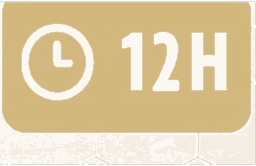
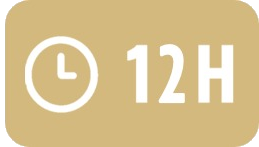
feat: portfolio demo site, real photo assets, promo badge, map links
- Add fake/index.html — a real duplicate of the invite sharing the same
  assets/fonts, with a made-up American guest list (scripts/fake_guests.json)
  for the portfolio. Two guests named "Nuno" to match the search placeholder.
  CLAUDE.md documents the two-site setup and the regeneration process.
- Replace several auto-cropped icons (ring, hourglass, bishop, chest, tent,
  unocard, herald, referee, car, guest/age/time badges) with cleaner
  higher-res versions from the original source art; add a full-color gold
  poker chip for the "ficha" card centerpiece.
- Replace the "M&S — O Jogo" and "Miguel & Sofia · Aliança Estratégica"
  text titles with the client's own branded banner graphics (auto-sizing),
  and swap the hand-built SVG route map for the original hexagon map artwork.
- Add a floating Grasshopper Solutions promo badge (top-right, both sites)
  linking to grasshoppersolutions.online.
- Fix the church/venue names on the board card to link to Google Maps,
  matching the existing links on the Elementos card.
- Correct the wedding date back to 12 June 2027 (Saturday) — an earlier
  "fix" had it wrong; the couple photo's baked-in date was right all along.

diff --git a/fake/index.html b/fake/index.html
@@ -13,21 +13,21 @@
 <link rel="preconnect" href="https://fonts.gstatic.com" crossorigin>
 <!-- Fonts identified from the original invitation assets:
      · game / UI text  -> IBM Plex Mono   (swap in ../ if the real one turns out to be Fira Mono / Ubuntu Mono)
-     · standard font    -> IM Fell English (self-hosted, fonts/IM_Fell_English/)
+     · standard font    -> IM Fell English (self-hosted, ../fonts/IM_Fell_English/)
      · arcade bits      -> Press Start 2P (self-hosted) / Cinzel wordmark
-     · card suits/naipe -> Play (self-hosted, fonts/Play/) -->
+     · card suits/naipe -> Play (self-hosted, ../fonts/Play/) -->
 <link href="https://fonts.googleapis.com/css2?family=Cinzel:wght@700;900&family=IBM+Plex+Mono:wght@400;500;600;700&display=swap" rel="stylesheet">
 <style>
   @font-face{font-family:'IM Fell English';font-style:normal;font-weight:400;font-display:swap;
-    src:url('fonts/IM_Fell_English/IMFellEnglish-Regular.ttf') format('truetype')}
+    src:url('../fonts/IM_Fell_English/IMFellEnglish-Regular.ttf') format('truetype')}
   @font-face{font-family:'IM Fell English';font-style:italic;font-weight:400;font-display:swap;
-    src:url('fonts/IM_Fell_English/IMFellEnglish-Italic.ttf') format('truetype')}
+    src:url('../fonts/IM_Fell_English/IMFellEnglish-Italic.ttf') format('truetype')}
   @font-face{font-family:'Press Start 2P';font-style:normal;font-weight:400;font-display:swap;
-    src:url('fonts/Press_Start_2P/PressStart2P-Regular.ttf') format('truetype')}
+    src:url('../fonts/Press_Start_2P/PressStart2P-Regular.ttf') format('truetype')}
   @font-face{font-family:'Play';font-style:normal;font-weight:400;font-display:swap;
-    src:url('fonts/Play/Play-Regular.ttf') format('truetype')}
+    src:url('../fonts/Play/Play-Regular.ttf') format('truetype')}
   @font-face{font-family:'Play';font-style:normal;font-weight:700;font-display:swap;
-    src:url('fonts/Play/Play-Bold.ttf') format('truetype')}
+    src:url('../fonts/Play/Play-Bold.ttf') format('truetype')}
   :root{
     --kraft:#c69a6b; --kraft-2:#bb8b58; --kraft-edge:#9c7040;
     --paper:#f3ead2; --paper-2:#e9dcbb; --card:#f6efdc;
@@ -45,7 +45,7 @@
   html,body{margin:0;padding:0;height:100%}
   body{
     font-family:var(--serif);color:var(--ink);
-    background:#d8c9a6 url("./assets/hexbg.jpg") center/cover fixed no-repeat;
+    background:#d8c9a6 url("../assets/hexbg.jpg") center/cover fixed no-repeat;
     overflow:hidden;
   }
 
@@ -115,7 +115,7 @@
 
   /* content card */
   .card{position:absolute;left:50%;top:50%;width:88%;aspect-ratio:63/97;transform:translate(-50%,140%) scale(.9);
-    background:var(--card) url("./assets/hexbg.jpg") center/200% no-repeat;background-blend-mode:overlay;
+    background:var(--card) url("../assets/hexbg.jpg") center/200% no-repeat;background-blend-mode:overlay;
     border-radius:14px;border:7px solid var(--gold-lt);box-shadow:var(--shadow),inset 0 0 0 2px var(--gold);
     z-index:8;opacity:0;transition:transform 1.5s cubic-bezier(.4,1.1,.4,1),opacity 1.5s;display:flex;flex-direction:column;overflow:hidden}
   .card.show{transform:translate(-50%,-52%) scale(1);opacity:1}
@@ -294,7 +294,7 @@
 
 <div class="promo" id="promo">
   <button class="promo-circle" id="promoCircle" aria-label="Grasshopper Solutions" aria-expanded="false">
-    <img src="./assets/grasshopper-logo.svg" alt="">
+    <img src="../assets/grasshopper-logo.svg" alt="">
   </button>
   <div class="promo-pop" id="promoPop">
     Get your own website from <b>Grasshopper Solutions</b>
@@ -309,7 +309,7 @@
       <div class="ribbon"></div>
       <div class="flap"></div>
       <div class="pocket"></div>
-      <div class="seal" id="seal"><img src="./assets/seal.jpg" alt="Selo M&amp;S"></div>
+      <div class="seal" id="seal"><img src="../assets/seal.jpg" alt="Selo M&amp;S"></div>
     </div>
     <div class="carrier" id="carrier"><div class="pcard back"><span>M&amp;S</span></div></div>
     <div class="card" id="card">
@@ -332,12 +332,12 @@
   </div>
 </div>
 
-<script id="guests" type="application/json">[{"rank":"K","suit":"♥","joker":false,"nocard":false,"names":["Miguel Comba"],"aliases":[],"q":["comba","miguel"]},{"rank":"Q","suit":"♠","joker":false,"nocard":false,"names":["Sofia Moreira"],"aliases":[],"q":["moreira","sofia"]},{"rank":"A","suit":"♠","joker":false,"nocard":false,"names":["Cristina Moreira","Luis Moreira"],"aliases":[],"q":["cristina","luis","moreira"]},{"rank":"A","suit":"♣","joker":false,"nocard":false,"names":["Julia Fernandes"],"aliases":["Tia Juju"],"q":["fernandes","juju","julia"]},{"rank":"A","suit":"♦","joker":false,"nocard":false,"names":["Aurelia Parreira"],"aliases":["Tia Lela"],"q":["aurelia","lela","parreira"]},{"rank":"A","suit":"♥","joker":false,"nocard":false,"names":["Ana Cristina Comba"],"aliases":[],"q":["ana","comba","cristina"]},{"rank":"K","suit":"♦","joker":false,"nocard":false,"names":["Nelson dos Santos","Arlete"],"aliases":["Tio Nelson"],"q":["arlete","dos","nelson","santos"]},{"rank":"K","suit":"♠","joker":false,"nocard":false,"names":["Manuel Moreira","Maria Moreira"],"aliases":[],"q":["manuel","maria","moreira"]},{"rank":"J","suit":"♥","joker":false,"nocard":false,"names":["Diogo Comba"],"aliases":[],"q":["comba","diogo"]},{"rank":"J","suit":"♦","joker":false,"nocard":false,"names":["José João Dantas"],"aliases":[],"q":["dantas","joao","jose"]},{"rank":"J","suit":"♣","joker":false,"nocard":false,"names":["Daniel Malato","Márcia Gonçalves"],"aliases":[],"q":["daniel","goncalves","malato","marcia"]},{"rank":"J","suit":"♠","joker":false,"nocard":false,"names":["Nuno Moreira","Moni"],"aliases":[],"q":["moni","moreira","nuno"]},{"rank":"Q","suit":"♦","joker":false,"nocard":false,"names":["Ana Afonso","Cristina Antunes"],"aliases":[],"q":["afonso","ana","antunes","cristina"]},{"rank":"Q","suit":"♥","joker":false,"nocard":false,"names":["Daniela Rodrigues","Ben"],"aliases":[],"q":["ben","dani","daniela","rodrigues"]},{"rank":"Q","suit":"♣","joker":false,"nocard":false,"names":["Margarida Patriarca","Flavio Pereira","Isabel Patriarca","Artur Patriarca"],"aliases":[],"q":["artur","flavio","guida","isabel","margarida","patriarca","pereira"]},{"rank":"JOKER","suit":null,"joker":true,"nocard":false,"names":["João Ventura","Bela Ventura","Gonçalinho Ventura"],"aliases":[],"q":["bela","goncalinho","joao","ventura"]},{"rank":"10","suit":"♥","joker":false,"nocard":false,"names":["Tia Maria","Tio Alfredo"],"aliases":[],"q":["alfredo","maria"]},{"rank":"9","suit":"♥","joker":false,"nocard":false,"names":["Tio Toto Fernando"],"aliases":[],"q":["fernando","toto"]},{"rank":"8","suit":"♥","joker":false,"nocard":false,"names":["Fernando Ventura","Bernardo Ventura","Bernardo"],"aliases":[],"q":["bernardo","fernando","ventura"]},{"rank":"7","suit":"♥","joker":false,"nocard":false,"names":["Ricardo Ventura","Acompanhante"],"aliases":[],"q":["ricardo","ventura"]},{"rank":"6","suit":"♥","joker":false,"nocard":false,"names":["Sergio Ventura","Rita"],"aliases":[],"q":["rita","sergio","ventura"]},{"rank":"5","suit":"♥","joker":false,"nocard":false,"names":["Pedro","Paula","Beatriz"],"aliases":[],"q":["beatriz","dauther","paula","pedro","toto"]},{"rank":"4","suit":"♥","joker":false,"nocard":false,"names":["Fernando Castro","Fabio Castro","Acompanhante","Eugenia Botelho"],"aliases":[],"q":["botelho","castro","eugenia","fabio","fernando","mother"]},{"rank":"3","suit":"♥","joker":false,"nocard":false,"names":["Constança","Acompanhante"],"aliases":[],"q":["constanca"]},{"rank":"10","suit":"♦","joker":false,"nocard":false,"names":["Sofia Faustino","Beatriz"],"aliases":[],"q":["beatriz","faustino","sofia"]},{"rank":"9","suit":"♦","joker":false,"nocard":false,"names":["Rodrigo Mendes","Vera"],"aliases":[],"q":["mendes","rodrigo","vera"]},{"rank":"8","suit":"♦","joker":false,"nocard":false,"names":["João Cunha","Claudia","Santiago"],"aliases":[],"q":["claudia","cunha","joao","santiago"]},{"rank":"7","suit":"♦","joker":false,"nocard":false,"names":["Ricardo Reis","Manuela"],"aliases":[],"q":["manuela","reis","ricardo"]},{"rank":"6","suit":"♦","joker":false,"nocard":false,"names":["Priscila Mendes","Priscila"],"aliases":[],"q":["mendes","priscila"]},{"rank":"5","suit":"♦","joker":false,"nocard":false,"names":["Nuno Tavares","Ana"],"aliases":[],"q":["ana","nuno","tavares"]},{"rank":"4","suit":"♦","joker":false,"nocard":false,"names":["Rita Teixeira"],"aliases":[],"q":["rita","teixeira"]},{"rank":"3","suit":"♦","joker":false,"nocard":false,"names":["Pedro Baptista"],"aliases":[],"q":["baptista","pedro"]},{"rank":"2","suit":"♦","joker":false,"nocard":false,"names":["Paulo Brioso","Acompanhante"],"aliases":[],"q":["brioso","paulo"]},{"rank":"JOKER","suit":null,"joker":true,"nocard":true,"names":["Mitchell"],"aliases":[],"q":["mitchell"]},{"rank":"JOKER","suit":null,"joker":true,"nocard":false,"names":["Manuela","Lara","Dona Helena"],"aliases":[],"q":["dona","helena","lara","manuela"]},{"rank":"10","suit":"♠","joker":false,"nocard":false,"names":["Helena Quaresma","João Quaresma"],"aliases":["Tia Lena"],"q":["helena","husband","joao","lena","quaresma"]},{"rank":"9","suit":"♠","joker":false,"nocard":false,"names":["Primo Zézito","Acompanhante"],"aliases":[],"q":["primo","zezito"]},{"rank":"8","suit":"♠","joker":false,"nocard":false,"names":["Fernanda Correia"],"aliases":[],"q":["correia","fernanda"]},{"rank":"7","suit":"♠","joker":false,"nocard":false,"names":["Marta Quaresma","Gonçalo Matos"],"aliases":[],"q":["goncalo","husband","marta","matos","quaresma"]},{"rank":"6","suit":"♠","joker":false,"nocard":false,"names":["Graça Gonçalves","Zé Ricardo Gonçalves"],"aliases":["Tia Graça","Tio Zé"],"q":["goncalves","graca","ricardo","ze"]},{"rank":"4","suit":"♠","joker":false,"nocard":false,"names":["Vitor Ramos"],"aliases":[],"q":["ramos","vitor"]},{"rank":"3","suit":"♠","joker":false,"nocard":false,"names":["Angela Nobre"],"aliases":[],"q":["angela","nobre"]},{"rank":"10","suit":"♣","joker":false,"nocard":false,"names":["Emidio Martins"],"aliases":[],"q":["emidio","martins"]},{"rank":"9","suit":"♣","joker":false,"nocard":false,"names":["Ana","Paulinho"],"aliases":[],"q":["ana","paulinho"]},{"rank":"7","suit":"♣","joker":false,"nocard":false,"names":["Célia","Orlando"],"aliases":[],"q":["celia","husband","orlando"]},{"rank":"6","suit":"♣","joker":false,"nocard":false,"names":["Paula","Paulo","Catarina"],"aliases":[],"q":["catarina","dauther","husband","paula","paulo"]},{"rank":"3","suit":"♣","joker":false,"nocard":false,"names":["Philip Kirby","Margarida Guerra"],"aliases":[],"q":["guerra","kirby","margarida","philip"]},{"rank":"JOKER","suit":null,"joker":true,"nocard":true,"names":["Catarina"],"aliases":[],"q":["catarina"]},{"rank":"JOKER","suit":null,"joker":true,"nocard":true,"names":["Ana Sousa"],"aliases":[],"q":["ana","sousa"]},{"rank":"JOKER","suit":null,"joker":true,"nocard":true,"names":["Amilcar Alves","Amelia Melo"],"aliases":[],"q":["alves","amelia","amilcar","melo"]}]</script>
+<script id="guests" type="application/json">[{"rank":"K","suit":"♥","joker":false,"nocard":false,"names":["David Smith"],"aliases":[],"q":["david","smith"]},{"rank":"Q","suit":"♠","joker":false,"nocard":false,"names":["Sarah Smith","Christopher Smith"],"aliases":[],"q":["christopher","sarah","smith"]},{"rank":"A","suit":"♠","joker":false,"nocard":false,"names":["Nuno Carter"],"aliases":[],"q":["carter","nuno"]},{"rank":"A","suit":"♣","joker":false,"nocard":false,"names":["Nuno Bennett","Olivia Bennett"],"aliases":[],"q":["bennett","nuno","olivia"]},{"rank":"A","suit":"♦","joker":false,"nocard":false,"names":["Matthew Brown"],"aliases":[],"q":["brown","matthew"]},{"rank":"K","suit":"♦","joker":false,"nocard":false,"names":["Jessica Brown","Daniel Brown"],"aliases":[],"q":["brown","daniel","jessica"]},{"rank":"K","suit":"♠","joker":false,"nocard":false,"names":["Ashley Davis"],"aliases":[],"q":["ashley","davis"]},{"rank":"J","suit":"♥","joker":false,"nocard":false,"names":["William Miller","Amanda Miller","Joshua Miller"],"aliases":[],"q":["amanda","joshua","miller","william"]},{"rank":"J","suit":"♦","joker":false,"nocard":false,"names":["Elizabeth Wilson"],"aliases":[],"q":["elizabeth","wilson"]},{"rank":"J","suit":"♣","joker":false,"nocard":false,"names":["Andrew Moore","Samantha Moore"],"aliases":[],"q":["andrew","moore","samantha"]},{"rank":"J","suit":"♠","joker":false,"nocard":false,"names":["Brian Taylor"],"aliases":[],"q":["brian","taylor"]},{"rank":"Q","suit":"♦","joker":false,"nocard":false,"names":["Nicole Anderson","Kevin Anderson","Rachel Anderson"],"aliases":[],"q":["anderson","kevin","nicole","rachel"]},{"rank":"JOKER","suit":null,"joker":true,"nocard":true,"names":["Justin Thomas"],"aliases":[],"q":["justin","thomas"]}]</script>
 <script>
 (function(){
   "use strict";
   var GROUPS = JSON.parse(document.getElementById('guests').textContent);
-  var A='./assets/';
+  var A='../assets/';
 
   /* floating pieces */
   var bits=["♟","♜","♞","🎲","🃏","🎯","🀄","🁣","♠","♥","♦","♣","🧩","🎴","👑","💍","♚","⏳"];

diff --git a/CLAUDE.md b/CLAUDE.md
@@ -1,0 +1,93 @@
+# M&S — O Jogo — project notes for Claude
+
+Board-game-themed wedding invitation for Miguel Comba & Sofia Moreira (12 June
+2027). Single self-contained `index.html` — no build step, no framework,
+CSS+JS inline, hosted on plain GitHub Pages. See `README.md` for the
+guest-list/RSVP/hosting details; this file is about the **two-site setup**.
+
+## Two sites, one codebase
+
+| Path | Purpose | Live at |
+|---|---|---|
+| `index.html` (root) | The real invite the couple's guests use | `.../miguel-e-sofia/` |
+| `fake/index.html` | Portfolio demo — same site, fake guests | `.../miguel-e-sofia/fake/` |
+
+`fake/index.html` is **not a symlink or a build output** — it's a real
+duplicate file. GitHub Pages serves plain files with no templating, so this
+is the simplest way to publish two variants without a build step. It isn't a
+symlink to the same bytes either: relative asset paths resolve against the
+*page's URL*, not the file's location on disk, so a byte-identical file
+served from two different paths would need different `./assets/` prefixes
+anyway — a real duplicate sidesteps that.
+
+**The two files must stay byte-identical except for:**
+1. Relative path prefixes — root uses `./assets/` and `fonts/...`; `fake/`
+   uses `../assets/` and `../fonts/...` (both point at the *same* shared
+   `assets/` and `fonts/` folders at the project root — nothing is
+   duplicated there).
+2. The `<script id="guests" type="application/json">…</script>` payload —
+   root has the real guest list (not committed in full context here, comes
+   from `OG_Assets/Nomes.xlsx` via `scripts/parse_names.py`); `fake/` has a
+   made-up list of common American names (source: `scripts/fake_guests.json`,
+   committed and tracked — unlike the real list, there's nothing private
+   about the fake one). Two of the fake guests are named "Nuno" on purpose,
+   to match the placeholder text `O teu nome (ex.: Nuno)` and demonstrate
+   the disambiguation flow.
+
+**When you change anything else — copy, CSS, JS, timing, new features —
+apply it to both `index.html` and `fake/index.html`.** The fastest safe way:
+make the edit in `index.html` first, verify it, then regenerate `fake/`:
+
+```bash
+sed -e "s#\./assets/#../assets/#g" -e "s#'fonts/#'../fonts/#g" -e "s#, fonts/#, ../fonts/#g" index.html > /tmp/fake_new.html
+python3 -c "
+import json, re
+data = json.load(open('scripts/fake_guests.json', encoding='utf-8'))
+compact = json.dumps(data, ensure_ascii=False, separators=(',', ':'))
+html = open('/tmp/fake_new.html', encoding='utf-8').read()
+pattern = re.compile(r'(<script id=\"guests\" type=\"application/json\">)(.*?)(</script>)', re.S)
+html, n = pattern.subn(lambda m: m.group(1) + compact + m.group(3), html)
+assert n == 1
+open('fake/index.html', 'w', encoding='utf-8').write(html)
+"
+```
+
+Then confirm nothing else drifted. **Use Python for this, not shell `diff`**
+— both files are mostly a handful of extremely long minified lines (one CSS
+line, one JS line, etc.), and shell `diff`/process-substitution in this repo's
+environment has been seen to spuriously report the entire file as different
+when only one long line actually changed. Compare line-by-line instead:
+
+```bash
+python3 -c "
+a = open('index.html', encoding='utf-8').readlines()
+b = open('fake/index.html', encoding='utf-8').read()
+b = b.replace('../assets/', './assets/').replace(\"'../fonts/\", \"'fonts/\").replace(', ../fonts/', ', fonts/')
+b = b.splitlines(keepends=True)
+diffs = [i for i,(x,y) in enumerate(zip(a,b)) if x!=y]
+print('differing line numbers (0-indexed):', diffs)
+"
+```
+
+Expect exactly 3 lines back: the two font-path comment lines near the top
+(cosmetic only — `fonts/...` vs `../fonts/...` inside an HTML comment) and
+the `<script id="guests">` line. Anything else means a real edit didn't make
+it into `fake/index.html` — go apply it.
+
+## Known caveat: RSVP shares the real WhatsApp number
+
+`RSVP_WHATSAPP` in both files is the couple's real number (see README). The
+portfolio/demo site currently points at the **same** number — if someone
+plays with the fake site and taps "CONTA COMIGO"/"CONTA CONNOSCO", it opens
+a WhatsApp chat to the real couple. This was flagged, not silently fixed —
+swap it for a placeholder/demo number in `fake/index.html` before pointing
+real portfolio traffic at it, or leave it if that's acceptable.
+
+## Promo badge (both sites)
+
+The floating circular badge (top-right, `#promo`) advertises Grasshopper
+Solutions and links to grasshoppersolutions.online. Icon is
+`assets/grasshopper-logo.svg`, pulled from the
+`grasshopperitsolutions/landing-page` GitHub repo
+(`assets/grasshopper-geometric-logo.svg`). It's part of the shared template,
+so it appears on both the real invite and the fake demo.

diff --git a/README.md b/README.md
@@ -1,19 +1,24 @@
 # M&S — O Jogo · Convite de casamento Miguel & Sofia
 
 Convite digital de casamento com tema de jogo de tabuleiro.
-Miguel Comba & Sofia Moreira · 6 de Junho de 2027 · São João das Lampas.
+Miguel Comba & Sofia Moreira · 12 de Junho de 2027 · São João das Lampas.
 
 ## Estrutura
 
 | Caminho        | O que é                                                                 |
 |----------------|------------------------------------------------------------------------|
-| `index.html`   | O convite — página única, autónoma (CSS + JS inline). Não há passo de build nem dependências — abre em qualquer browser, funciona offline. |
-| `assets/`      | Imagens do convite (fundo, selo, ícones extraídos, foto do casal, etc.) |
-| `fonts/`       | `IM Fell English` (self-hosted, `@font-face` no `index.html`)          |
+| `index.html`   | O convite real — página única, autónoma (CSS + JS inline). Não há passo de build nem dependências — abre em qualquer browser, funciona offline. |
+| `fake/index.html` | **Cópia para portefólio** — o mesmo site, com uma lista de convidados inventada (nomes americanos comuns). Ver `CLAUDE.md`. |
+| `assets/`      | Imagens do convite (fundo, selo, ícones extraídos, foto do casal, etc.) — partilhadas pelas duas versões |
+| `fonts/`       | `IM Fell English`, `Press Start 2P`, `Play` (self-hosted, `@font-face`) — partilhadas pelas duas versões |
 | `404.html`     | Página de erro                                                         |
 | `OG_Assets/`   | Material de origem (`.ppsx`, vídeo, JPEGs, `Nomes.xlsx`). **Fora do git** (`.gitignore`) — grande e contém a lista de convidados em bruto. |
 
 Havia três edições (Clássica, Deluxe, Final) durante o desenvolvimento — foram consolidadas numa só (a antiga "Final") para eliminar a duplicação de código entre a raiz e `final/`. O histórico das outras duas fica disponível no git caso valha a pena revisitá-las.
+
+### Site "fake" (portefólio)
+
+`fake/index.html` é uma **cópia real** do `index.html` (não um symlink nem build) — os caminhos relativos para `../assets/`/`../fonts/` apontam para as mesmas pastas partilhadas na raiz. A única diferença intencional é a lista de convidados (`<script id="guests">`), gerada a partir de `scripts/fake_guests.json` em vez do Excel real. **Qualquer alteração ao `index.html` deve ser replicada no `fake/index.html`** — ver `CLAUDE.md` para o processo e para um aviso importante sobre o número de WhatsApp do RSVP ser partilhado entre os dois sites.
 
 ## Lista de convidados
 
